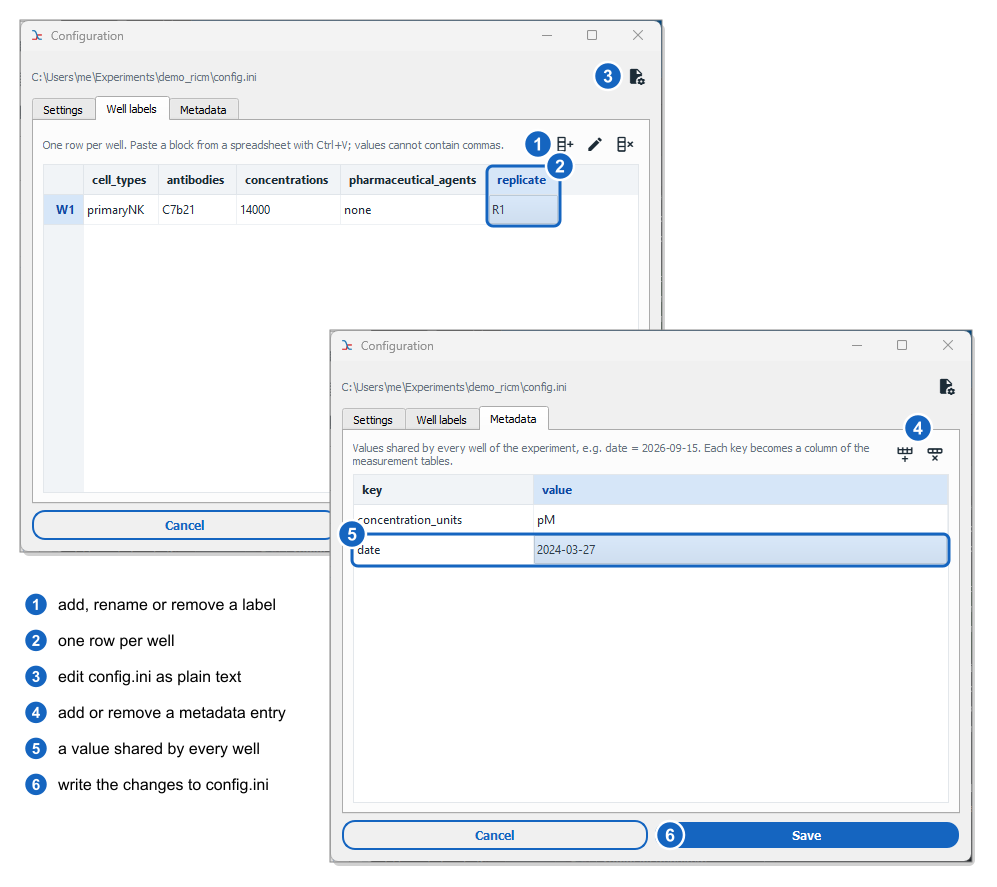
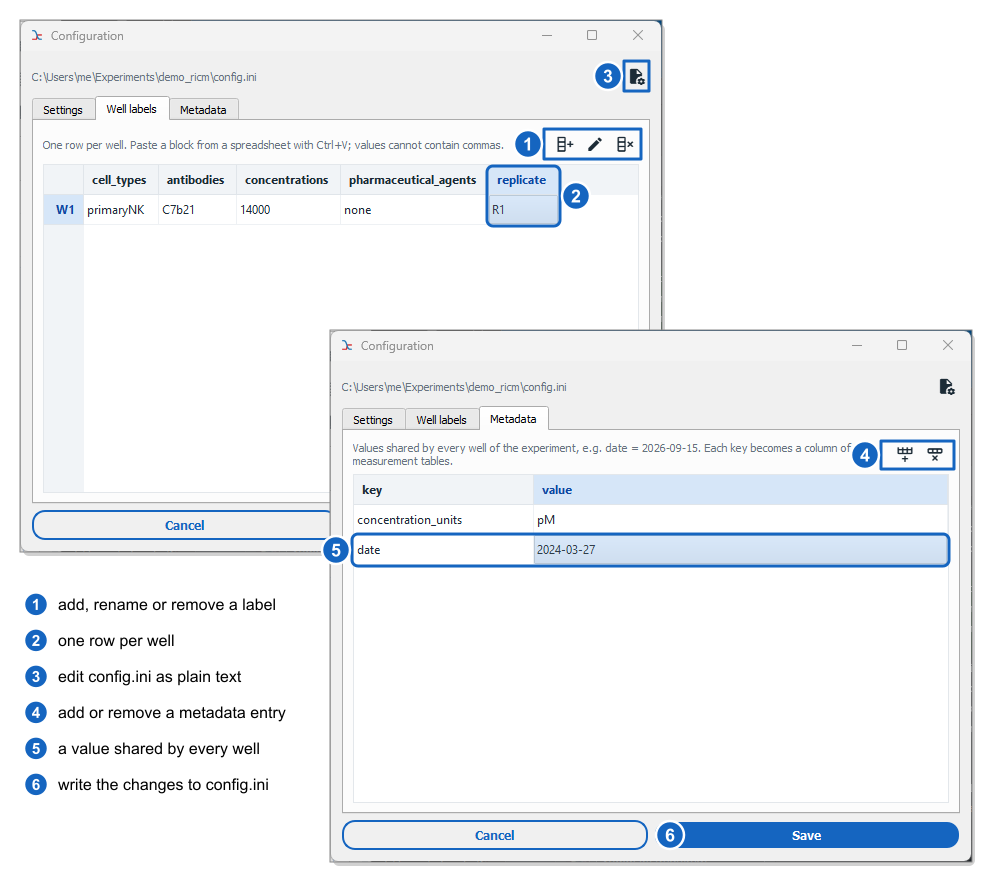
update figures

Changed region(s): [[0.4975, 0.0609, 0.653, 0.2435], [0.8395, 0.4566, 0.9639, 0.5479], [0.3109, 0.5784, 0.3731, 0.6392]]

diff --git a/.claude/skills/documentation-writer/references/figures.md b/.claude/skills/documentation-writer/references/figures.md
@@ -18,10 +18,33 @@ Taken from the older hand-made figures (`maingui.png`,
 - whole windows **with their title bar**, on a transparent background, with a
   soft shadow; several windows may overlap like on a desktop;
 - **thick black curved arrows** (`arrow`, width 5) for "this opens that";
-- **blue boxes** (`box`, #1565c0, rounded) to frame what is talked about;
-- **numbered blue badges** (`badge`) on the UI + a `legend` in free space
-  when there are more than ~2 things to point at — clearer than many leader
-  lines; thin `leader` lines with a dot for a few isolated labels;
+- **numbered callouts** (`callout`) + a `legend` in free space when there are
+  more than ~2 things to point at — clearer than many leader lines; thin
+  `leader` lines with a dot for a few isolated labels.
+
+### Callouts (the maintainer's preferred annotation, from their own edit of
+`config-editor.svg` — the reference figure to imitate)
+
+- **Every badge comes with a frame** drawn tightly around exactly what it
+  designates: the group of tool icons, the single button, the new column, the
+  new row. Never a badge floating over an unframed spot, never a badge on a
+  frame's corner.
+- **The badge sits just outside the frame, centred on one of its sides**
+  (centre `r + 2` px from the edge), on the side where there is room and where
+  it hides no UI text — usually the left, the right when the left is busy.
+- **A group of tool icons gets one frame around the whole group**,
+  square-cornered (`rounded=False`); cells, rows, columns and sections get a
+  rounded frame.
+- **A large button that speaks for itself** (Save, Submit) gets no frame:
+  the badge sits on its left end (`frame=False`).
+- Frame stroke 3 px, #1565c0; badge r = 14 (16 on full-screen captures),
+  white 2.5 px outline so it reads over any background.
+
+```python
+f.callout(1, ax + 524, ay + 109, 97, 30, rounded=False)   # tool icons
+f.callout(2, ax + 467, ay + 146, 73, 60, side="right")    # a column
+f.callout(6, bx + 325, by + 490, 303, 30, frame=False)    # Save button
+```
 - labels in "DejaVu Sans, Arial, sans-serif", black, 14–17 px (21 px on
   full-screen captures such as napari, which the page scales down ~50 %);
 - short lowercase labels ("tune the correlation disk on a frame").
@@ -46,6 +69,22 @@ Taken from the older hand-made figures (`maingui.png`,
    ~50–400 kB; a full-screen napari capture ~1 MB. Grep `<image` count =
    number of shots (see pitfalls).
 7. Embed in the page (SKILL.md snippet) and check it in headless Chrome.
+
+## Hand edits in Inkscape
+
+The maintainer may touch up an SVG in Inkscape. `build_figures.py` rewrites
+the SVG from scratch, so **a hand edit is lost at the next build unless it is
+ported to the code**. When an SVG differs from what the build produces
+(`git diff` on `docs/source/_static/figures/`, or a newer mtime than the
+screenshots):
+
+1. back it up to the scratchpad;
+2. read it with the base64 stripped
+   (`re.sub(r'base64,[^"]*', 'B64', s)`) and render it to PNG to see it;
+3. translate each change into `build_figures.py` calls (and new `annotate.py`
+   primitives if the change is a new kind of mark), rebuild, and compare the
+   two renders side by side until they match;
+4. if the edit shows a style preference, record it in this file.
 
 ## Pitfalls met before
 

diff --git a/.claude/skills/documentation-writer/SKILL.md b/.claude/skills/documentation-writer/SKILL.md
@@ -64,7 +64,11 @@ Follow `references/figures.md`. The pipeline lives in `docs/figures`
 `docs/source/_static/figures/<name>.svg`. For a new figure: write a capture
 script (recipes in `references/capture-recipes.md`), add a function to
 `build_figures.py`, build, **look at the preview**, iterate on coordinates
-until no label overlaps UI text or another line.
+until no label overlaps UI text or another line. Point at things with
+numbered **callouts** — a tight frame around the target and its badge centred
+just outside one side — as in the reference figure `config-editor.svg`.
+Before rebuilding, check whether an SVG was edited by hand in Inkscape and
+port the edit to the code first (figures.md, "Hand edits").
 
 Embed as:
 

diff --git a/docs/figures/README.md b/docs/figures/README.md
@@ -43,3 +43,15 @@ build_figures.py  one function per figure: layout and annotations
 If a window moved or grew, update the coordinates of its annotations in
 `build_figures.py`: they are given relative to the top-left corner of the
 screenshot they point at.
+
+## Style
+
+Point at things with numbered callouts (`Figure.callout`): a tight frame
+around the target, its badge centred just outside one side, and a legend
+explaining the numbers. `config-editor.svg` is the reference.
+
+## Editing an SVG by hand
+
+Touching up a figure in Inkscape is fine, but `build_figures.py` rewrites it
+from scratch: port the change to the figure's function (or tell Claude, whose
+`/documentation-writer` skill does it) before the next build.
